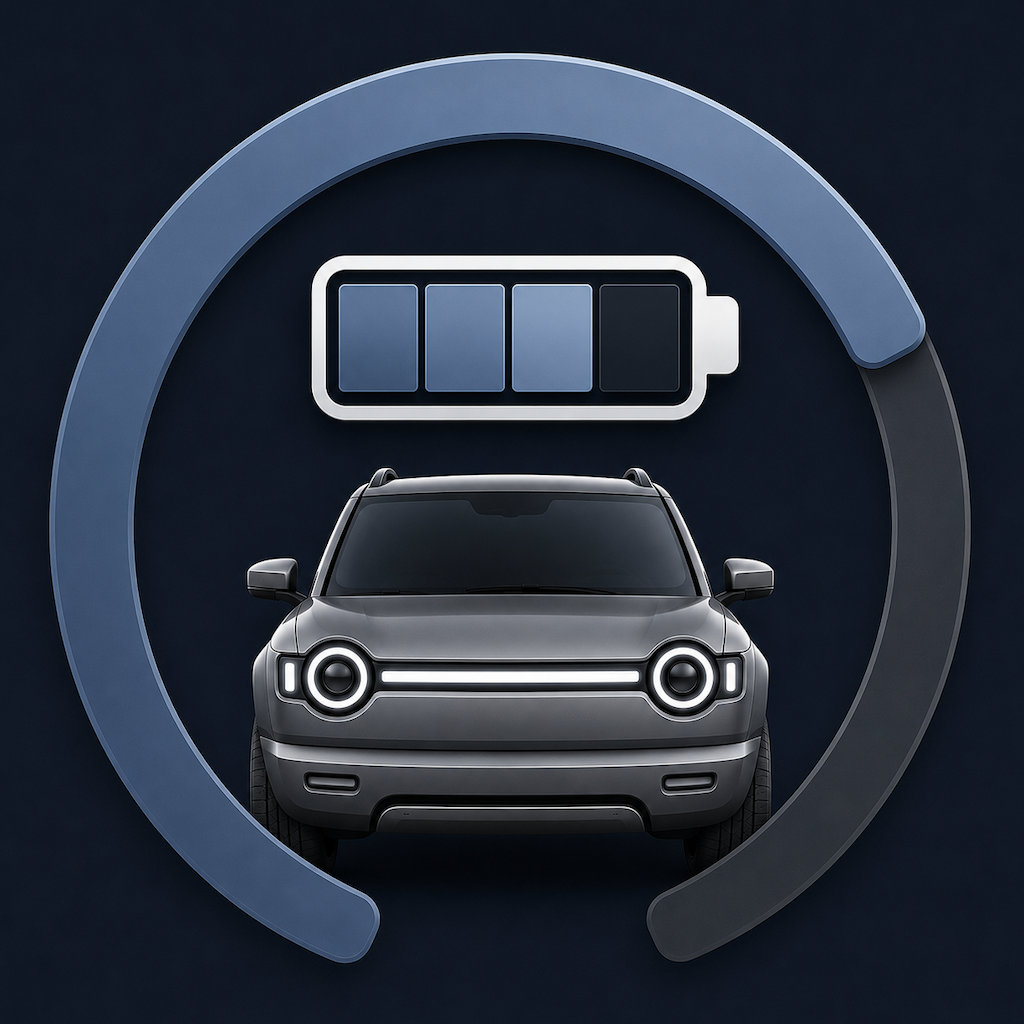
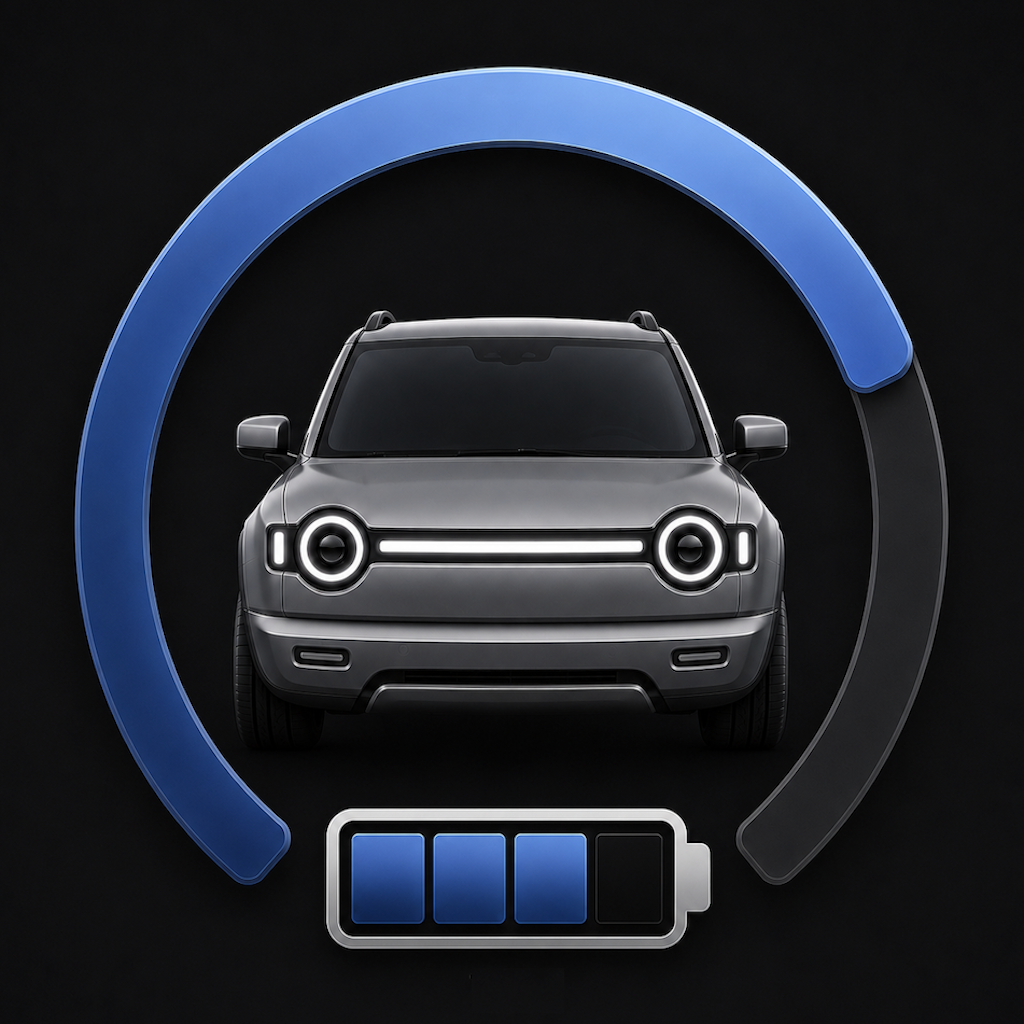
Polish paywall and update app branding assets

diff --git a/MiniConsumption/PaywallView.swift b/MiniConsumption/PaywallView.swift
@@ -5,6 +5,7 @@ struct PaywallView: View {
     @State private var activationCode = ""
     @State private var activationMessage: String?
     @State private var activationSucceeded = false
+    @State private var isShowingActivationCodeAlert = false
 
     var body: some View {
         VStack(spacing: 24) {
@@ -27,7 +28,7 @@ struct PaywallView: View {
                     .font(.body.weight(.semibold))
             }
 
-            VStack(spacing: 12) {
+            VStack(spacing: 16) {
                 Button {
                     Task {
                         await entitlementManager.purchaseUnlock()
@@ -46,48 +47,31 @@ struct PaywallView: View {
                 .controlSize(.large)
                 .disabled(entitlementManager.unlockProduct == nil || entitlementManager.isPurchasing)
 
-                Button {
-                    Task {
-                        await entitlementManager.restorePurchases()
-                    }
-                } label: {
-                    if entitlementManager.isRestoring {
-                        ProgressView()
-                    } else {
-                        Text("Restore Purchases")
-                    }
-                }
-                .buttonStyle(.bordered)
-                .controlSize(.large)
-                .disabled(entitlementManager.isRestoring)
-            }
-
-            VStack(alignment: .leading, spacing: 8) {
-                Text("Activation code")
-                    .font(.headline)
-
-                HStack(spacing: 8) {
-                    TextField("Activation code", text: $activationCode)
-                        .textFieldStyle(.roundedBorder)
-                        .textInputAutocapitalization(.characters)
-                        .autocorrectionDisabled()
-                        .onSubmit {
-                            redeemActivationCode()
+                HStack(spacing: 10) {
+                    Button {
+                        Task {
+                            await entitlementManager.restorePurchases()
                         }
-
-                    Button("Redeem") {
-                        redeemActivationCode()
+                    } label: {
+                        Text(entitlementManager.isRestoring ? "Restoring..." : "Restore Purchases")
                     }
-                    .disabled(activationCode.trimmingCharacters(in: .whitespacesAndNewlines).isEmpty)
-                }
+                    .font(.footnote.weight(.medium))
+                    .buttonStyle(.plain)
+                    .foregroundStyle(.secondary)
+                    .disabled(entitlementManager.isRestoring)
 
-                if let activationMessage {
-                    Text(activationMessage)
-                        .font(.footnote)
-                        .foregroundStyle(activationSucceeded ? .green : .red)
+                    Text("|")
+                        .font(.footnote.weight(.medium))
+                        .foregroundStyle(.tertiary)
+
+                    Button("I have a code") {
+                        isShowingActivationCodeAlert = true
+                    }
+                    .font(.footnote.weight(.medium))
+                    .buttonStyle(.plain)
+                    .foregroundStyle(.secondary)
                 }
             }
-            .frame(maxWidth: 360)
 
             if entitlementManager.isLoadingProducts {
                 ProgressView("Loading purchase options...")
@@ -102,11 +86,32 @@ struct PaywallView: View {
                     .padding(.horizontal)
             }
 
+            Spacer(minLength: 32)
+
+            if let activationMessage {
+                Text(activationMessage)
+                    .font(.footnote)
+                    .foregroundStyle(activationSucceeded ? .green : .red)
+                    .multilineTextAlignment(.center)
+            }
+
             Spacer(minLength: 64)
         }
         .padding(28)
         .frame(maxWidth: .infinity, maxHeight: .infinity)
         .background(Color(.systemBackground))
+        .alert("Activation code", isPresented: $isShowingActivationCodeAlert) {
+            TextField("Enter code", text: $activationCode)
+                .textInputAutocapitalization(.characters)
+                .autocorrectionDisabled()
+
+            Button("Activate") {
+                redeemActivationCode()
+            }
+            .disabled(activationCode.trimmingCharacters(in: .whitespacesAndNewlines).isEmpty)
+
+            Button("Cancel", role: .cancel) {}
+        }
         .task {
             await entitlementManager.refresh()
         }

diff --git a/MiniConsumption/ContentView.swift b/MiniConsumption/ContentView.swift
@@ -8403,8 +8403,9 @@ struct AboutAppGuideView: View {
 
     private var aboutLinksSection: some View {
         VStack(alignment: .leading, spacing: 8) {
-            Link("Website", destination: URL(string: "https://sites.google.com/view/range-pilot/")!)
-            Link("FAQ", destination: URL(string: "https://sites.google.com/view/range-pilot/faq")!)
+            Link("Website", destination: URL(string: "https://sites.google.com/view/rangepilot/home")!)
+            Link("FAQ", destination: URL(string: "https://sites.google.com/view/rangepilot/faq")!)
+            Link("Privacy Policy", destination: URL(string: "https://sites.google.com/view/rangepilot/privacy-policy")!)
         }
         .font(.subheadline)
         .padding(.top, 8)